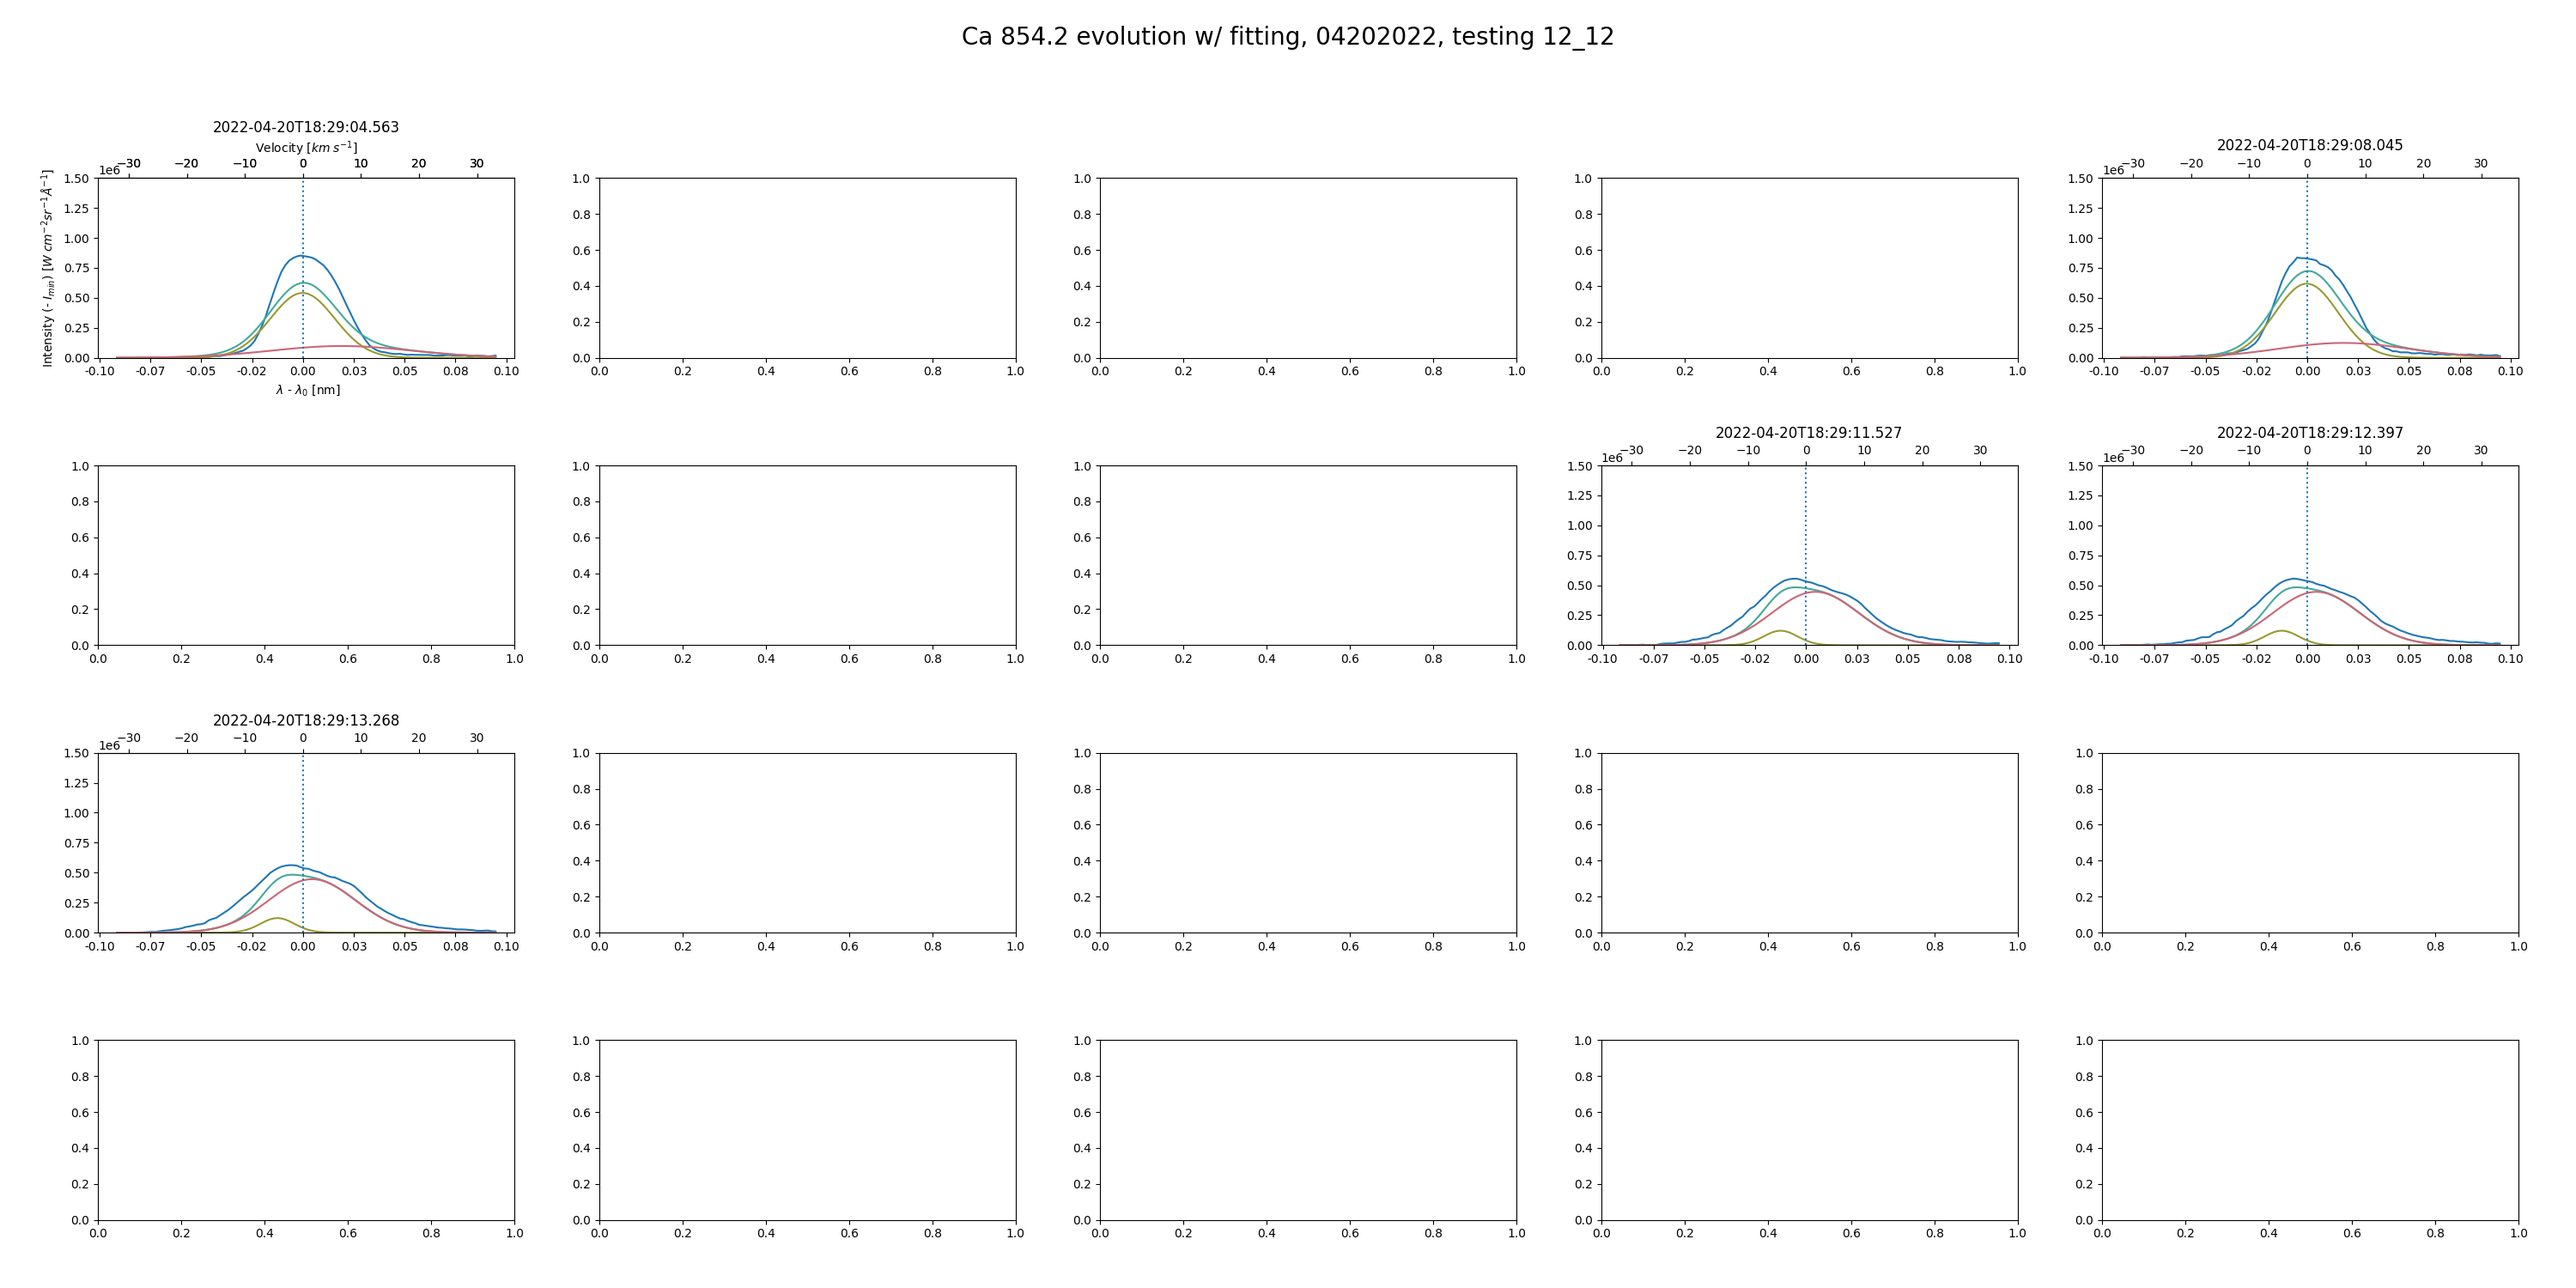
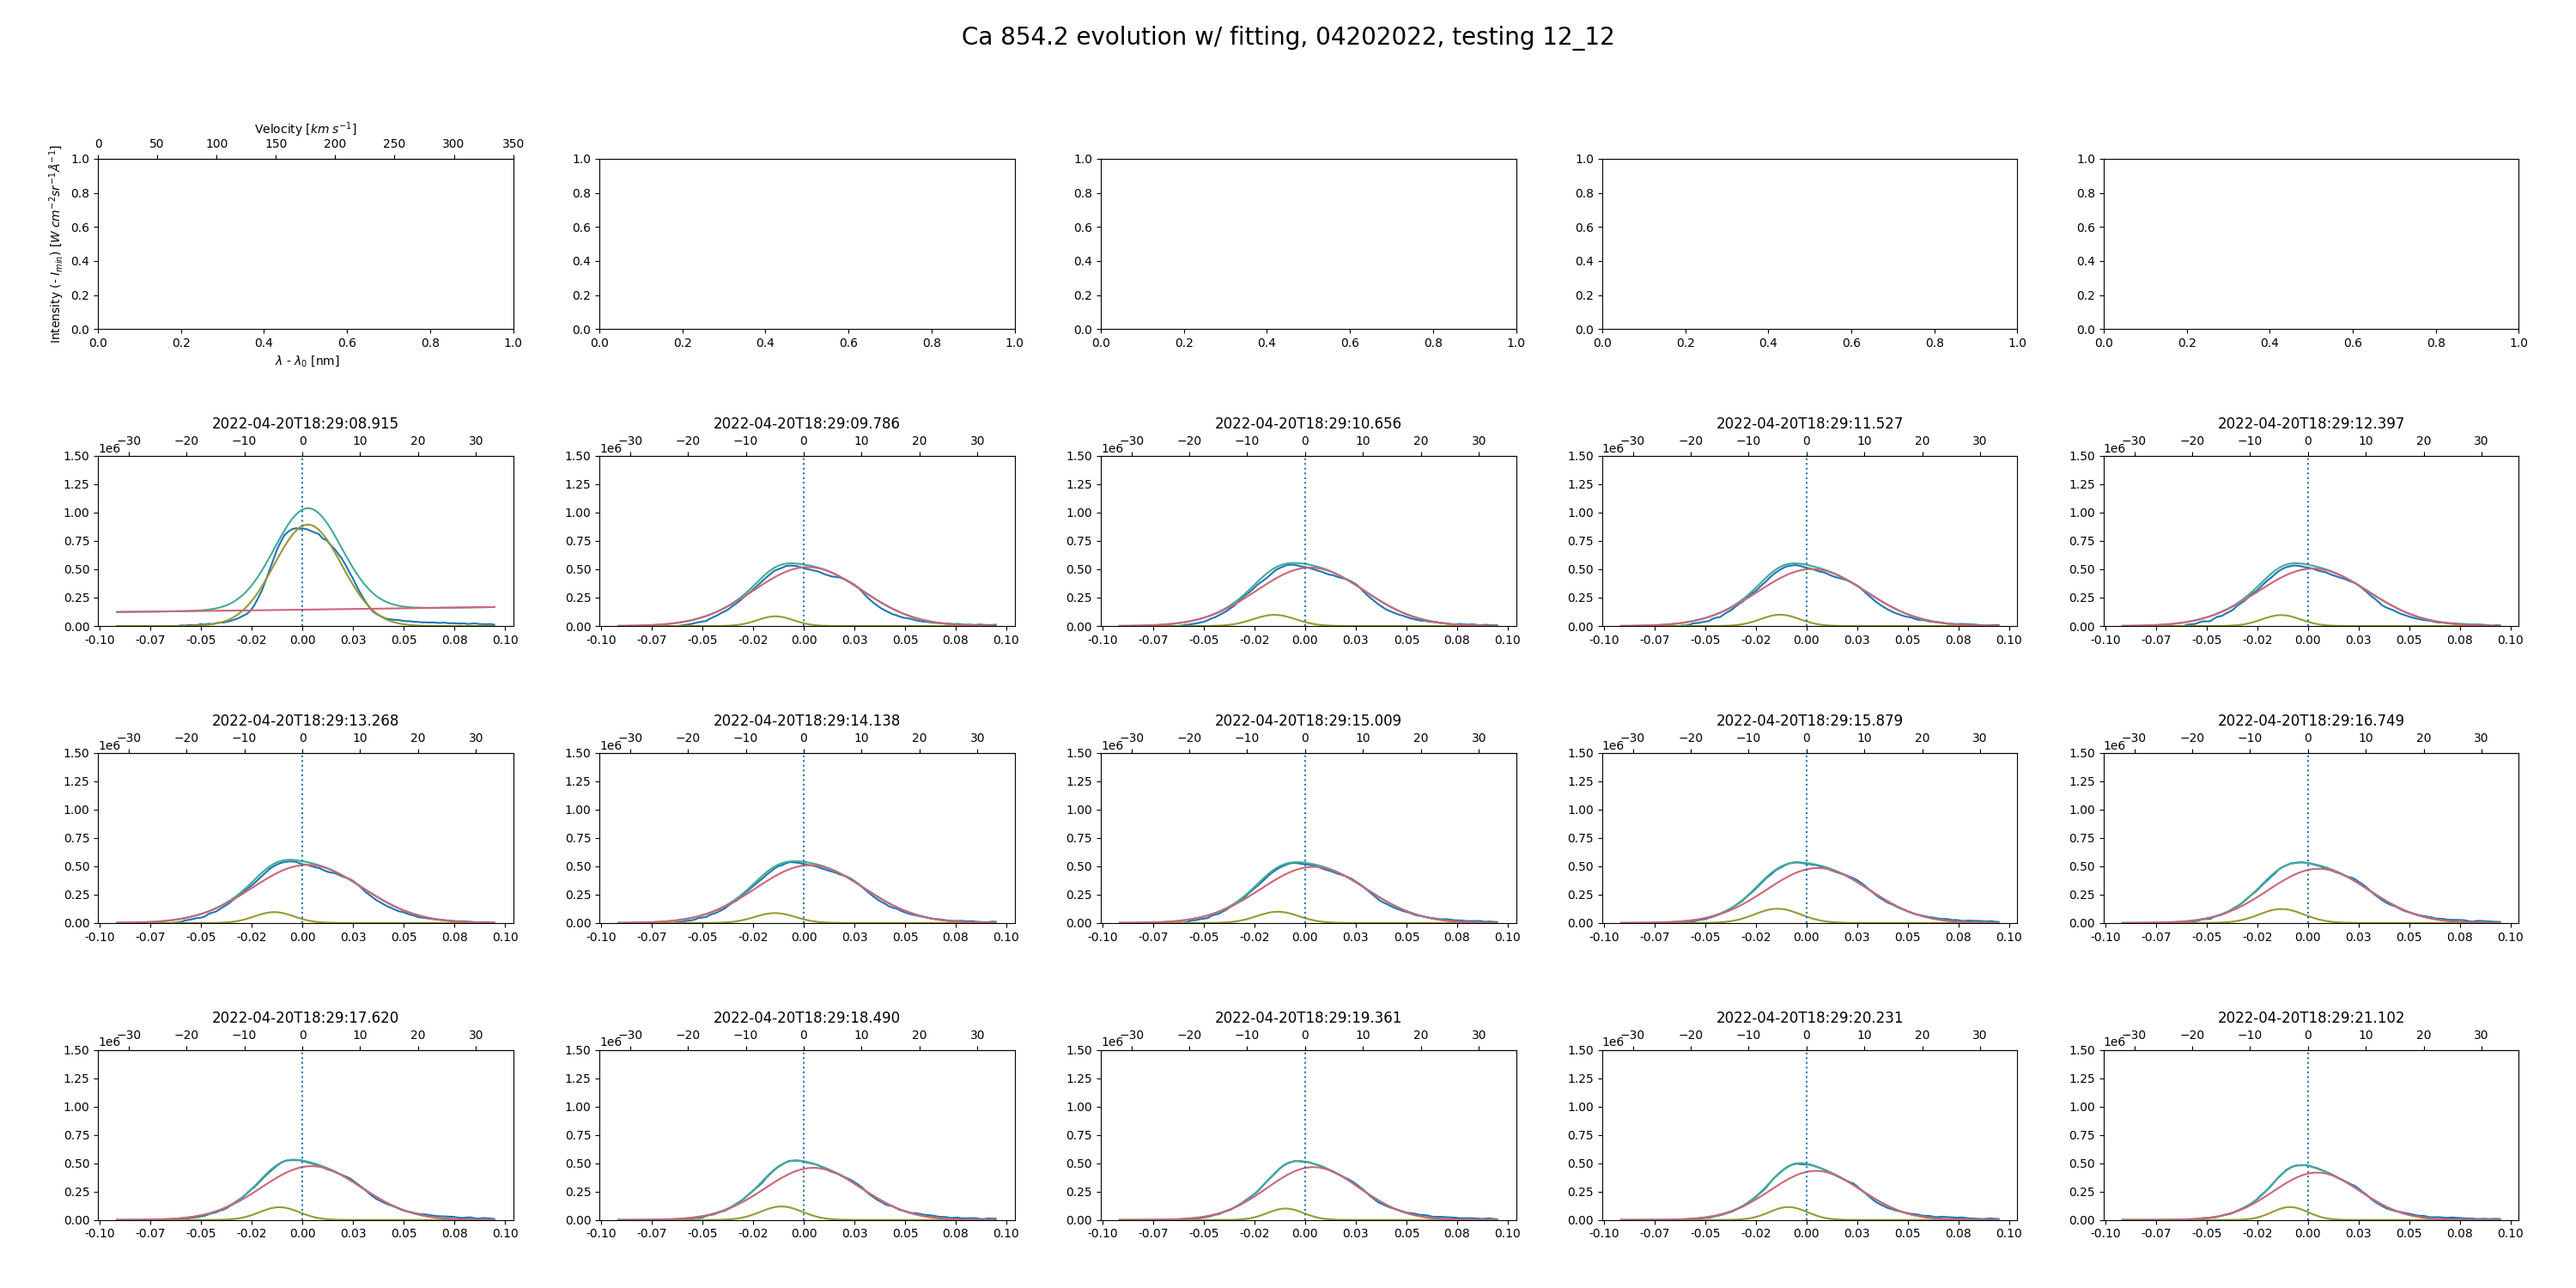
modeling of ca II 8542, final go 12/13/2023

diff --git a/dkistpkg_ct.py b/dkistpkg_ct.py
@@ -898,11 +898,13 @@ def fittingroutines(bkgd_subtract_flaretime,dispersion_range,
             except RuntimeError:
                 continue
         elif l==1:
+            stopind = j
             break
             
     
     # redefine gaussian parameters based on result of initial fit
     params2gauss = fit2g
+    params2gaussnew = params2gauss
     paramsgauss = paramsgauss # should be fine based on initial gauss, with 1g
     
     print(params2gauss)
@@ -915,14 +917,14 @@ def fittingroutines(bkgd_subtract_flaretime,dispersion_range,
         p = np.poly1d(np.polyfit(cont_int_wave_array,cont_int_array,deg))
         nolines = p(dispersion_range)
         selwl = dispersion_range[line_low:line_high]
-        sel = bkgd_subtract_flaretime[j,line_low:line_high,kernind]-\
+        sel = bkgd_subtract_flaretime[i,line_low:line_high,kernind]-\
             nolines[line_low:line_high]
                 
         try:
             
             fit1g, fit1gcov = curve_fit(gaussian,selwl,sel,p0=paramsgauss)
             fit2g, fit2gcov = curve_fit(double_gaussian,selwl,sel, 
-                                        p0=params2gauss,
+                                        p0=params2gaussnew,
                                         maxfev=5000)
             #fit2gneg, fit2gnegcov = curve_fit(double_gaussian,selwl,\ 
                 #sel,p0=params2gaussneg,maxfev=5000)
@@ -937,7 +939,7 @@ def fittingroutines(bkgd_subtract_flaretime,dispersion_range,
         
         #fits_2gneg.append([fit2gneg,fit2gnegcov])
             
-    return fits_1g, fits_2g, fits_2gneg
+    return fits_1g, fits_2g, fits_2gneg, params2gaussnew,stopind
 
 def pltfitresults(bkgd_subtract_flaretime,dispersion_range,double_gaussian,
                   gaussian,times,muted,

diff --git a/pid_1_38_analysis.py b/pid_1_38_analysis.py
@@ -213,16 +213,16 @@ selwl = dispersion_range[caII_8542_low:caII_8542_high]
 #                              caII_8542_low,caII_8542_high,store_ten_width,
 #                              store_quarter_width,store_half_width)
     
-nimg = 20
+nimg = 333
 # output fit parameters
-fits_1g,fits_2g,fits_2gneg,= \
+fits_1g,fits_2g,fits_2gneg,params2gaussnew,stopind= \
     DKISTanalysis.fittingroutines(bkgd_subtract_flaretime,new_dispersion_range2,
                                   times, caII_8542_low_for_fit, 
                                   caII_8542_high_for_fit,
                                   DKISTanalysis.double_gaussian, 
                                   DKISTanalysis.gaussian, 
                                   selwl,sel,[1.1,854.28,0.05],
-                                  [.3e6,wl-0.01,0.01,.1e6,854.22,0.01],
+                                  [.3e6,854.2,0.015,.5e6,854.22,0.015],
                                   [.5e6,396.85,0.015,-1e6,396.85,0.015],
                                   maxindices,pid='pid_1_38', date = '04/20/2022',
                                   line = 'Ca II 854.2',nimg = nimg)
